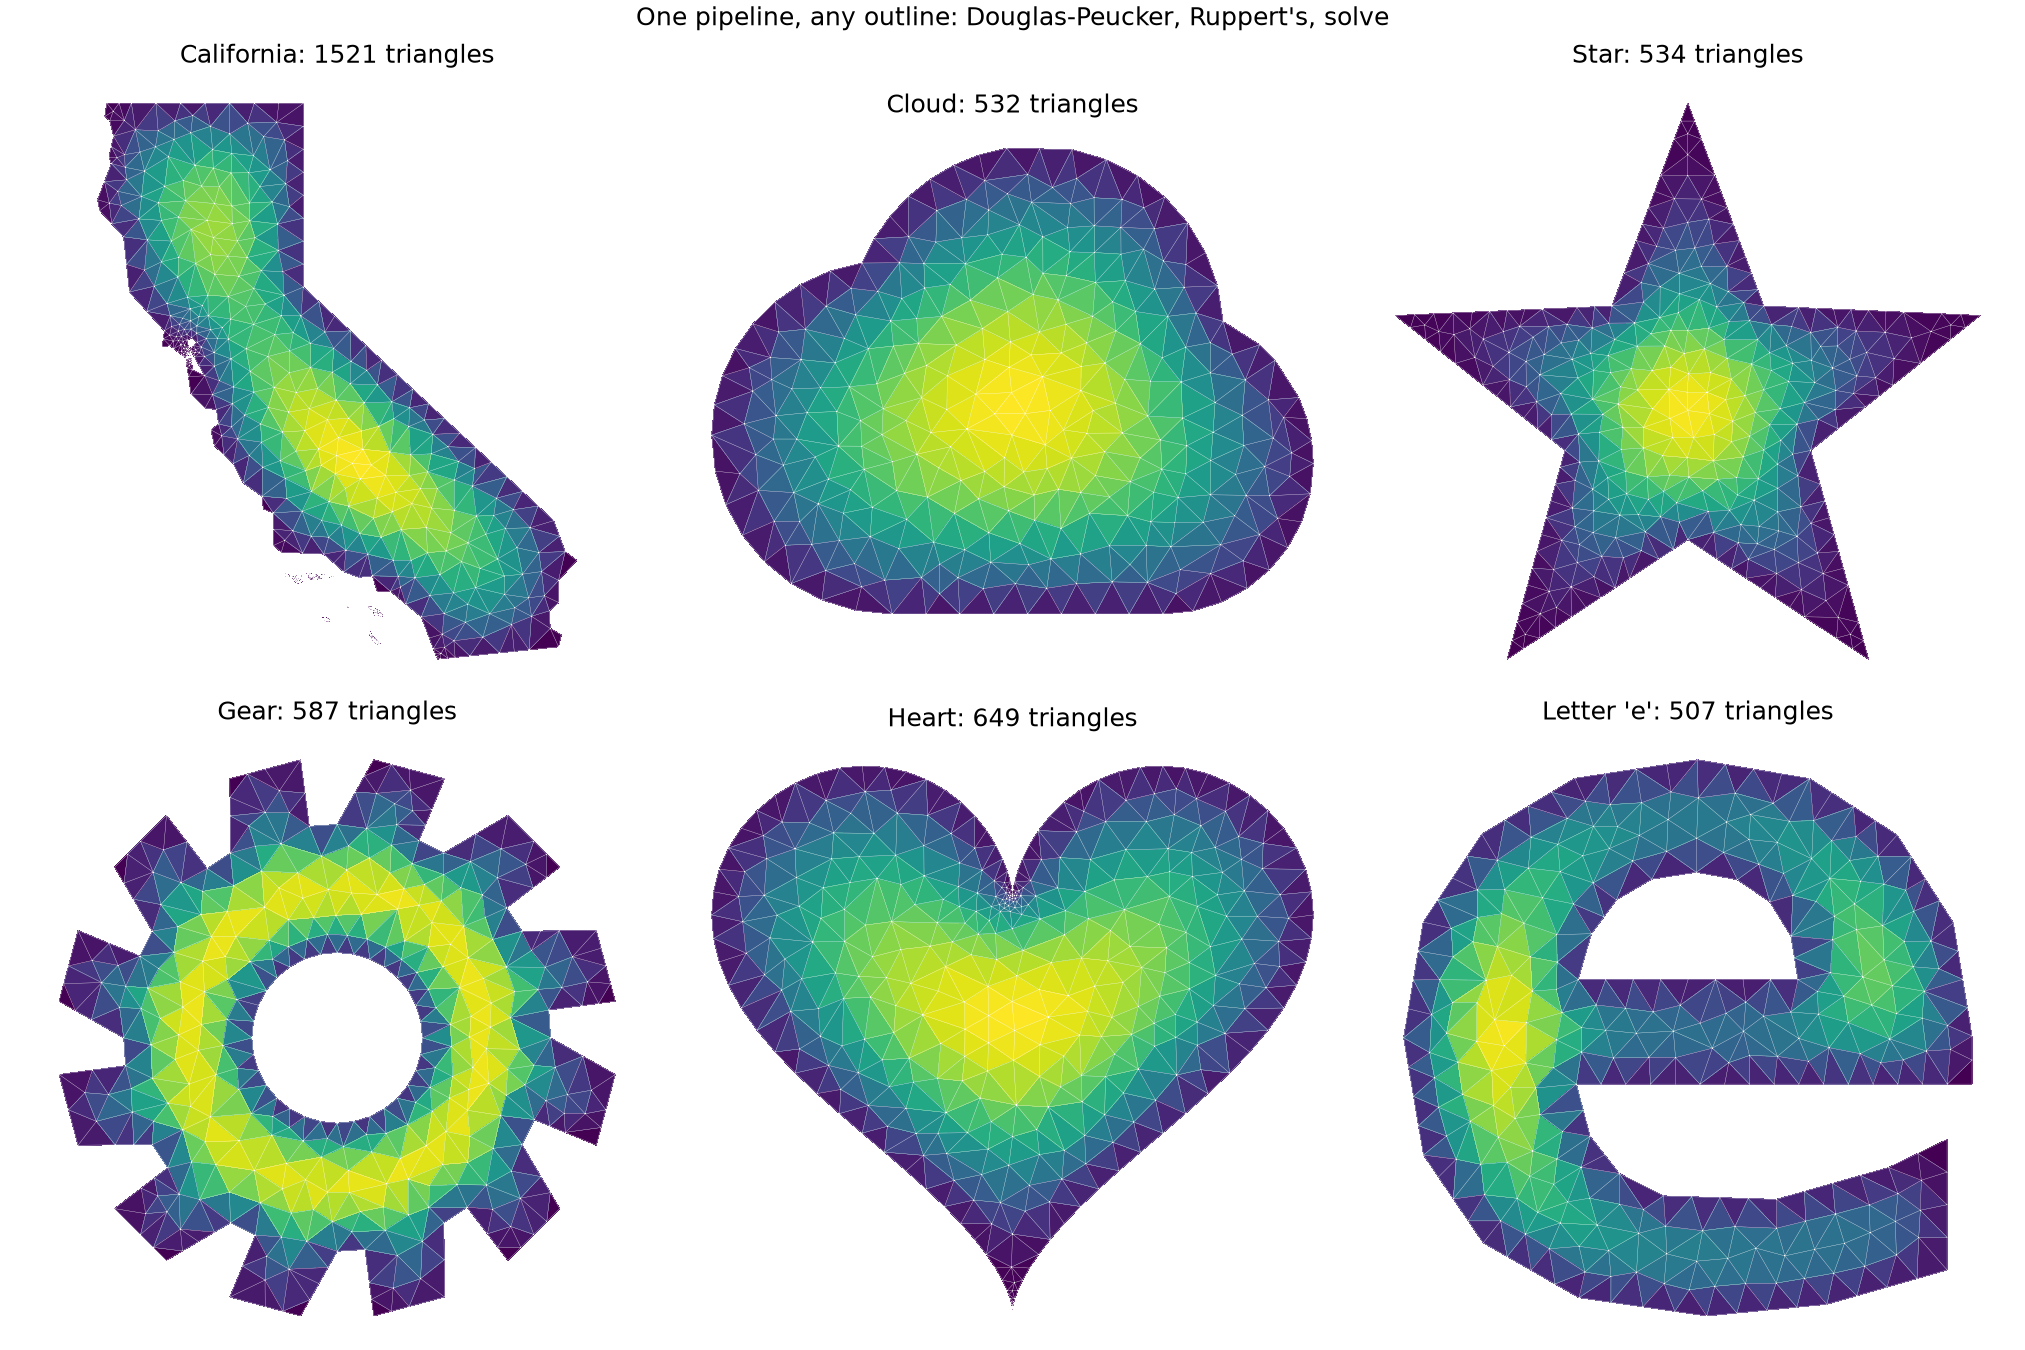
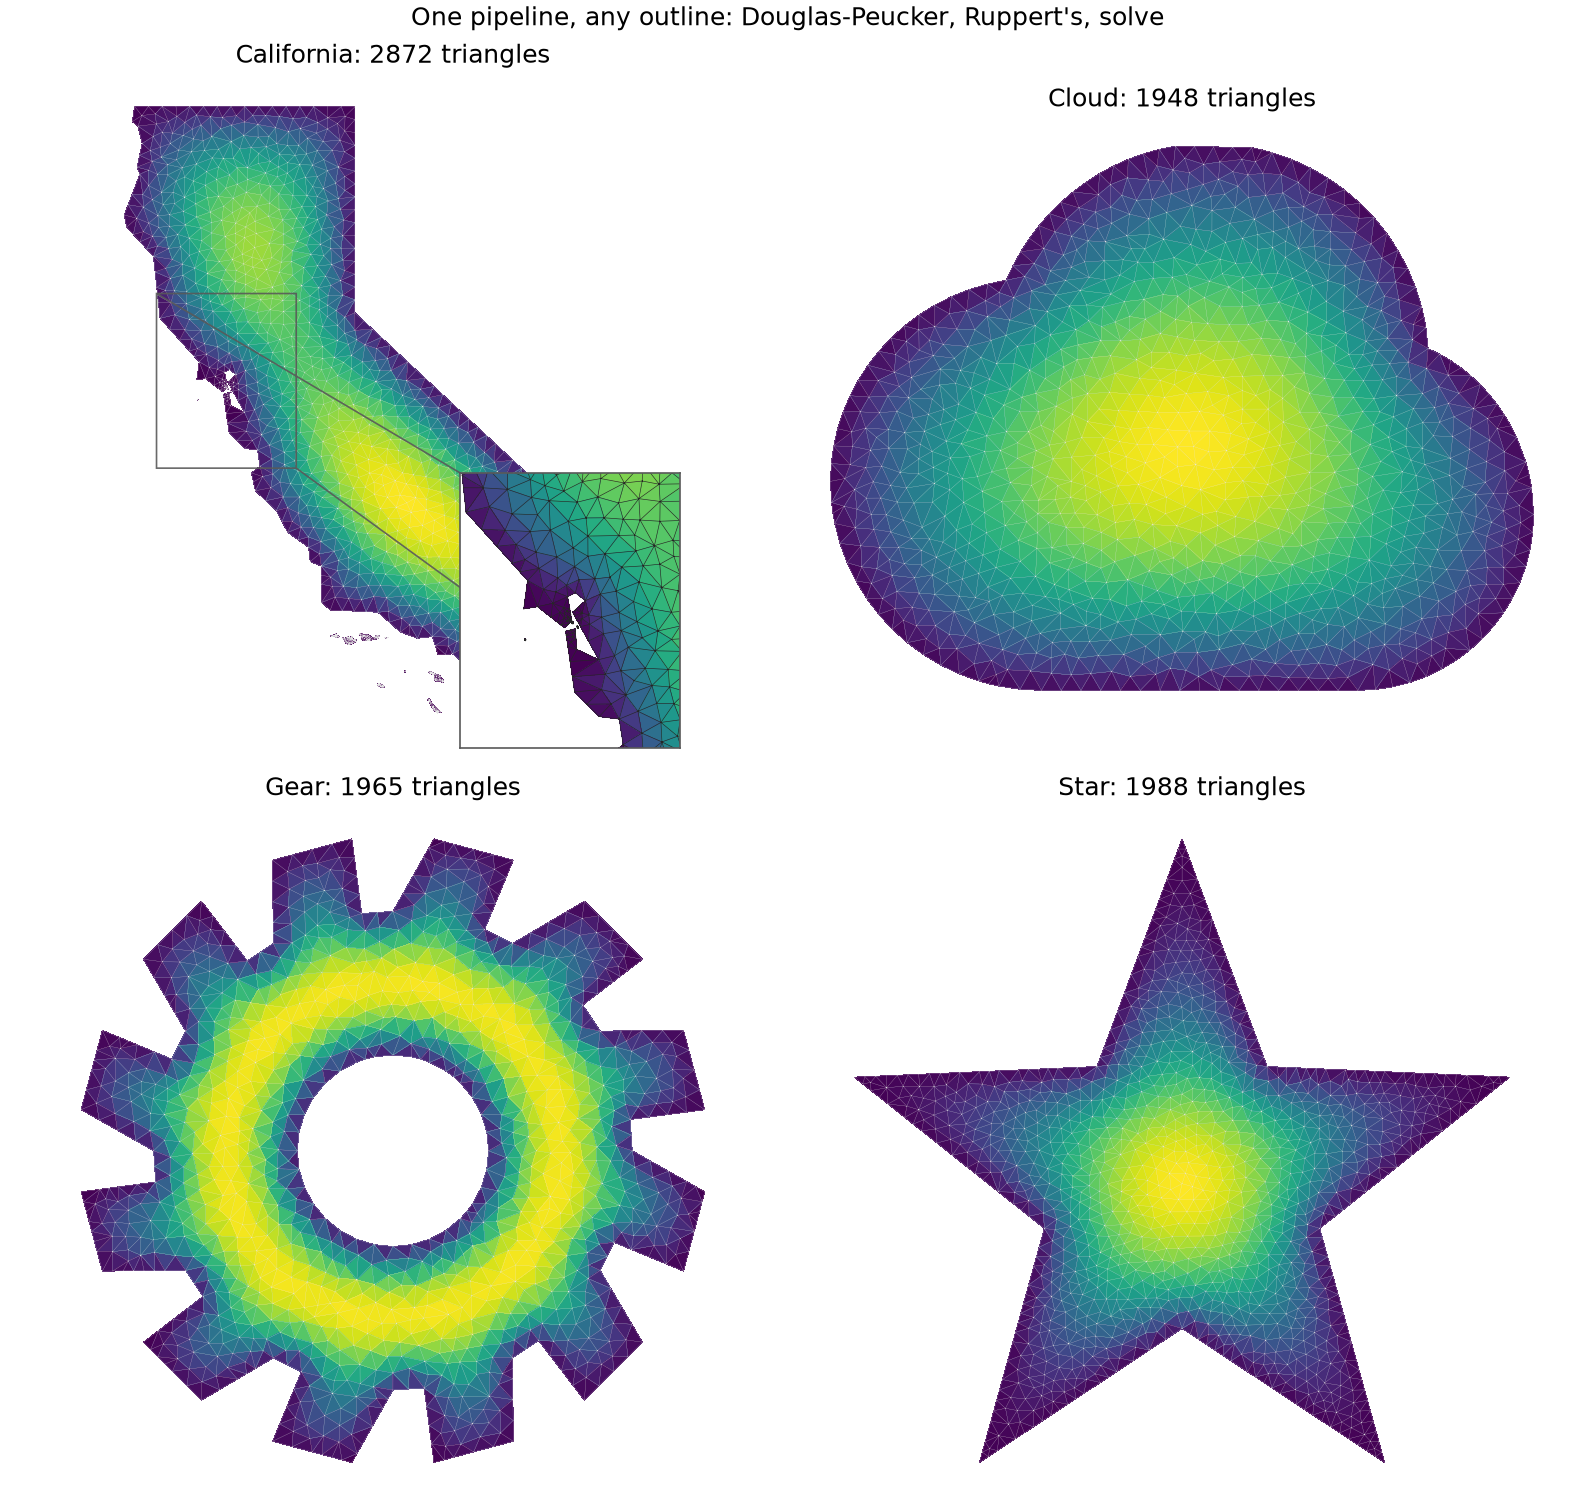
Tone down the outline zoo: four shapes, smooth fields, mesh inset
Address the review: too flashy, and the coarse mesh implied a resolution
ceiling.

- trim to four serious outlines (California, cloud, gear, star); drop the
  decorative heart and letter, and their now-unused generators
- 2x2 grid, finer default mesh so the fields read smooth, and only a
  whisper of a wireframe so they look like results, not a coloring book
- add a high-res mesh zoom inset on California, so the density reads as a
  display choice rather than a limit; say so in the caption and README

diff --git a/examples/meshing_demos.py b/examples/meshing_demos.py
@@ -24,7 +24,7 @@ from fem.regions import everywhere, on_plane
 from fem.solver import Solver
 
 from demo_registry import Demo, DemoResult, Figure
-from domains import beam, gear_pslg, glyph_pslg, heart_pslg, star_pslg
+from domains import beam, gear_pslg, star_pslg
 
 # Resolved against the repo rather than the working directory: the input files ship
 # with the project, so a demo should not depend on where it was launched from. Output
@@ -175,36 +175,56 @@ def _zoo_shapes(svg_tolerance=DEFAULT_SIMPLIFICATION_TOLERANCE):
     """The outlines the zoo meshes, as (name, PSLG) pairs.
 
     California and the cloud are traced from `files/*.svg` and simplified on the way in;
-    the rest are generated (`domains.py`). Each puts a different demand on the mesher:
-    disconnected islands, a curved boundary, sharp corners, repeated teeth around a bore,
-    a smooth curve, and a glyph with a counter.
+    the star and gear are generated (`domains.py`). Each puts a different demand on the
+    mesher: disconnected islands, a curved boundary, sharp reentrant corners, and
+    repeated teeth around a circular bore.
     """
     return [
         ('California', read_svg_to_pslg(DEFAULT_SVG_FILE, tolerance=svg_tolerance)),
         ('Cloud', read_svg_to_pslg(CLOUD_SVG_FILE, tolerance=svg_tolerance)),
-        ('Star', star_pslg()),
         ('Gear', gear_pslg()),
-        ('Heart', heart_pslg()),
-        ("Letter 'e'", glyph_pslg('e')),
+        ('Star', star_pslg()),
     ]
 
-def demo_outline_zoo(min_angle=28, max_area_fraction=0.003, interactive=False):
-    """Mesh a variety of closed outlines, traced and generated, and solve the same Poisson
-    'dome' on each, to show one pipeline (simplify, Ruppert refine, solve) turning any
-    shape into a domain a PDE runs on."""
+def _mesh_zoom_inset(ax, mesh, u, clim, box, loc=(0.6, 0.02, 0.4, 0.4)):
+    """Overlay a zoomed inset on `ax` revealing the triangulation over `box`.
+
+    `box` is `(x0, x1, y0, y1)` in data coordinates. The main panels are drawn fine
+    enough that the field reads smooth, which can look like a resolution ceiling; the
+    inset shows the actual mesh under one of them, so the density reads as a display
+    choice rather than a limit.
+    """
+    vertices = np.asarray(mesh.vertices)
+    triangles = np.asarray(mesh.elements)
+    inset = ax.inset_axes(loc)
+    inset.tripcolor(vertices[:, 0], vertices[:, 1], triangles,
+                    facecolors=u[triangles].mean(axis=1), cmap='viridis',
+                    vmin=clim[0], vmax=clim[1])
+    plot_mesh(inset, mesh, color='0.15', linewidth=0.3)
+    inset.set_xlim(box[0], box[1])
+    inset.set_ylim(box[2], box[3])
+    inset.set_aspect('equal')
+    inset.set_xticks([])
+    inset.set_yticks([])
+    for spine in inset.spines.values():
+        spine.set_edgecolor('0.35')
+    ax.indicate_inset_zoom(inset, edgecolor='0.35', linewidth=0.8, alpha=0.9)
+
+def demo_outline_zoo(min_angle=28, max_area_fraction=0.0008, interactive=False):
+    """Mesh four closed outlines, traced and generated, and solve the same Poisson 'dome'
+    on each, to show one pipeline (simplify, Ruppert refine, solve) turning any shape into
+    a domain a PDE runs on."""
     # --interactive first opens a slider to explore the Douglas-Peucker simplification on
     # the California outline; the zoo itself simplifies the traced SVGs at a fixed tolerance.
     if interactive:
         simplify_curve(get_curve_from_svg(DEFAULT_SVG_FILE), interactive=True)
 
     shapes = _zoo_shapes()
-    ncols = 3
-    nrows = -(-len(shapes) // ncols)
-    plotter = Plotter(nrows, ncols, axis_labels=False, figsize=(13.5, 9.0),
+    plotter = Plotter(2, 2, axis_labels=False, figsize=(10.5, 10.0),
                       title="One pipeline, any outline: Douglas-Peucker, Ruppert's, solve")
     rows = ['outline        pts  triangles  min angle']
     for k, (name, pslg) in enumerate(shapes):
-        idx = divmod(k, ncols)
+        idx = divmod(k, 2)
         pslg.validate()
         mesh = RuppertsAlgorithm(pslg, min_angle=min_angle,
                                  max_area=max_area_fraction * pslg.area()).refine()
@@ -214,22 +234,28 @@ def demo_outline_zoo(min_angle=28, max_area_fraction=0.003, interactive=False):
         bc.add(BCType.DIRICHLET, everywhere(), 0)
         u = Solver(mesh, Poisson(source=1.0), bc).solve().u
         # A colour scale per cell (the domains differ in size by orders of magnitude) and
-        # no colorbar: the shape is the point, not the amplitude. The wireframe over it is
-        # the mesh the field was solved on.
-        plotter.plot(mesh, u, mode='colored', idx=idx, colorbar=False,
-                     clim=(0.0, float(u.max())), empty=True,
-                     title=f'{name}: {len(mesh.elements)} triangles')
-        plot_mesh(plotter.get_ax(idx), mesh, color='white', linewidth=0.15)
+        # no colorbar: the shape is the point, not the amplitude. A whisper of a wireframe
+        # keeps the mesh present without turning the field into a net.
+        clim = (0.0, float(u.max()))
+        plotter.plot(mesh, u, mode='colored', idx=idx, colorbar=False, clim=clim,
+                     empty=True, title=f'{name}: {len(mesh.elements)} triangles')
+        plot_mesh(plotter.get_ax(idx), mesh, color='0.9', linewidth=0.1)
+        if name == 'California':
+            # Reveal the real mesh under the smooth field, zoomed into the central coast.
+            v = np.asarray(mesh.vertices)
+            lo, hi = v.min(axis=0), v.max(axis=0)
+            span = hi - lo
+            box = (lo[0] + 0.06 * span[0], lo[0] + 0.32 * span[0],
+                   lo[1] + 0.42 * span[1], lo[1] + 0.70 * span[1])
+            _mesh_zoom_inset(plotter.get_ax(idx), mesh, u, clim, box)
         worst = calculate_triangle_min_angle(
             np.asarray(mesh.vertices)[np.asarray(mesh.elements)]).min()
         rows.append(f'{name:<14}{len(pslg.vertices):>4}{len(mesh.elements):>10}'
                     f'{worst:>8.0f}')
-    for k in range(len(shapes), nrows * ncols):     # blank any trailing cell
-        plotter.get_ax(divmod(k, ncols)).axis('off')
 
     return DemoResult([
         Figure(plotter,
-               'Six outlines through one pipeline. Each becomes a planar straight-line '
+               'Four outlines through one pipeline. Each becomes a planar straight-line '
                'graph, is simplified with Douglas-Peucker where it was traced densely '
                "(California, cloud), then triangulated by Ruppert's algorithm to a "
                'minimum-angle and maximum-area bound. On each mesh the same Poisson '
@@ -237,10 +263,12 @@ def demo_outline_zoo(min_angle=28, max_area_fraction=0.003, interactive=False):
                'boundary: tallest where the domain is widest and pinched to zero at every '
                'edge and hole. The outlines make different demands. California meshes as '
                "disconnected islands; the cloud's boundary follows its true Bezier "
-               "curves; the gear bore and the letter's counter are holes by the even-odd "
-               "rule; the star's notches and the heart's cusp are corners sharper than "
-               'the bound, which Ruppert meets at the input angle. The wireframe over '
-               'each field is the mesh it was solved on.')],
+               "curves; the gear bore is a hole by the even-odd rule; the star's notches "
+               'are corners sharper than the bound, which Ruppert meets at the input '
+               'angle. The mesh is drawn fine enough that the fields read smooth, not as '
+               "a resolution ceiling: the inset zooms into California's mesh, and "
+               'refinement (see the adaptive-refinement demo) drives it as fine as '
+               'wanted.')],
         text='\n'.join(rows))
 
 

diff --git a/examples/domains.py b/examples/domains.py
@@ -271,10 +271,9 @@ def tuning_fork_pslg(tine_length: float = 0.088, tine_thickness: float = 0.004,
     return PSLG.from_loops([outline])
 
 
-# The extra shapes the outline-zoo demo meshes and solves on, alongside the traced
-# `files/*.svg` outlines. Each is generated rather than traced, and each is chosen to
-# put a different demand on the mesher: a star for sharp corners, a gear for repeated
-# teeth and a hole, a heart for a smooth curve, a glyph for text with a counter.
+# The generated shapes the outline-zoo demo meshes and solves on, alongside the traced
+# `files/*.svg` outlines. Each puts a different demand on the mesher: a star for sharp
+# reentrant corners, a gear for repeated teeth around a circular bore (a hole).
 
 
 def star_pslg(points: int = 5, outer_radius: float = 1.0, inner_radius: float = 0.42,
@@ -321,52 +320,3 @@ def gear_pslg(teeth: int = 12, root_radius: float = 0.7, tooth_height: float = 0
                             center[1] + bore_radius * np.sin(bore_angles)])
     return PSLG.from_loops([np.array(outline), bore],
                            curves=[None, Circle(list(center), bore_radius)])
-
-
-def heart_pslg(scale: float = 1.0, center: tuple[float, float] = (0.0, 0.0),
-               n: int = 96) -> PSLG:
-    """A heart outline as a single smooth loop, sampled from the classic curve.
-
-    `x = 16 sin^3 t`, `y = 13 cos t - 5 cos 2t - 2 cos 3t - cos 4t`, normalized to a unit
-    height about `center` and scaled by `scale`. Sampled densely enough that the boundary
-    reads as smooth without an analytic curve behind it.
-    """
-    t = np.linspace(0, 2 * np.pi, n, endpoint=False)
-    x = 16 * np.sin(t) ** 3
-    y = 13 * np.cos(t) - 5 * np.cos(2 * t) - 2 * np.cos(3 * t) - np.cos(4 * t)
-    pts = np.column_stack([x, y])
-    pts = pts - pts.mean(axis=0)
-    pts = pts / (pts[:, 1].max() - pts[:, 1].min()) * scale
-    return PSLG.from_loops([pts + np.asarray(center)])
-
-
-def glyph_pslg(char: str = 'e', tolerance: float = 0.01,
-               center: tuple[float, float] = (0.0, 0.0)) -> PSLG:
-    """A single text glyph as a PSLG, its counter (the hole in an 'e' or 'a') included.
-
-    The glyph outline comes from matplotlib's bundled font, flattened to polygons and
-    simplified with Douglas-Peucker against its own extent. A letter with a counter comes
-    back as two loops, which the even-odd rule reads as an outline with a hole, the same
-    way a gear bore is a hole.
-    """
-    from matplotlib.font_manager import FontProperties
-    from matplotlib.textpath import TextPath
-
-    from fem.mesh.svg import douglas_peucker
-
-    path = TextPath((0, 0), char, size=1, prop=FontProperties(weight='bold'))
-    loops = []
-    for polygon in path.to_polygons(closed_only=True):
-        loop = np.asarray(polygon, dtype=float)
-        if len(loop) > 1 and np.allclose(loop[0], loop[-1]):
-            loop = loop[:-1]             # drop the repeated close; from_loops wraps
-        extent = float(np.max(loop.max(axis=0) - loop.min(axis=0)))
-        loop = douglas_peucker(loop, tolerance * extent)
-        if len(loop) >= 3:
-            loops.append(loop)
-
-    stacked = np.vstack(loops)
-    span = float(np.max(stacked.max(axis=0) - stacked.min(axis=0)))
-    mid = 0.5 * (stacked.max(axis=0) + stacked.min(axis=0))
-    loops = [(loop - mid) / span + np.asarray(center) for loop in loops]
-    return PSLG.from_loops(loops)

diff --git a/README.md b/README.md
@@ -31,14 +31,16 @@ Meshing here is a means to an end, the domain a solve needs, so the pipeline is 
 any closed outline, traced from an SVG or generated, becomes a planar straight-line
 graph, is simplified with Douglas-Peucker where it was traced densely (Ruppert's cost
 grows steeply in the point count), then triangulated by Ruppert's algorithm to a
-minimum-angle and maximum-area bound. Below, six outlines run that pipeline and then
+minimum-angle and maximum-area bound. Below, four outlines run that pipeline and then
 carry the same solve: the Poisson "dome" of $-\nabla^2 u = 1$ with $u = 0$ on the
 boundary, tallest where the domain is widest and pinched to zero at every edge and hole.
-Different shapes make different demands. California meshes as disconnected islands, the
-cloud's boundary follows its true Bezier curves, the gear bore and the letter's counter
-are holes by the even-odd rule, and the star's notches stay sharp.
+Each shape makes a different demand. California meshes as disconnected islands, the
+cloud's boundary follows its true Bezier curves, the gear bore is a hole by the even-odd
+rule, and the star's notches stay sharp. The meshes are drawn fine enough that the fields
+read smooth, not as a resolution ceiling; the inset zooms into California's mesh, and
+adaptive refinement drives it as fine as the error demands.
 
-![Six outlines meshed and Poisson-solved: California, a cloud, a star, a gear, a heart, and the letter e](images/mesh_zoo.png)
+![Four outlines meshed and Poisson-solved: California with a mesh zoom inset, a cloud, a gear, and a star](images/mesh_zoo.png)
 
 Boundary conditions are placed by *position*, not by vertex index, so the same
 specification lands on the same physical patch on any triangulation of the domain. Below,
